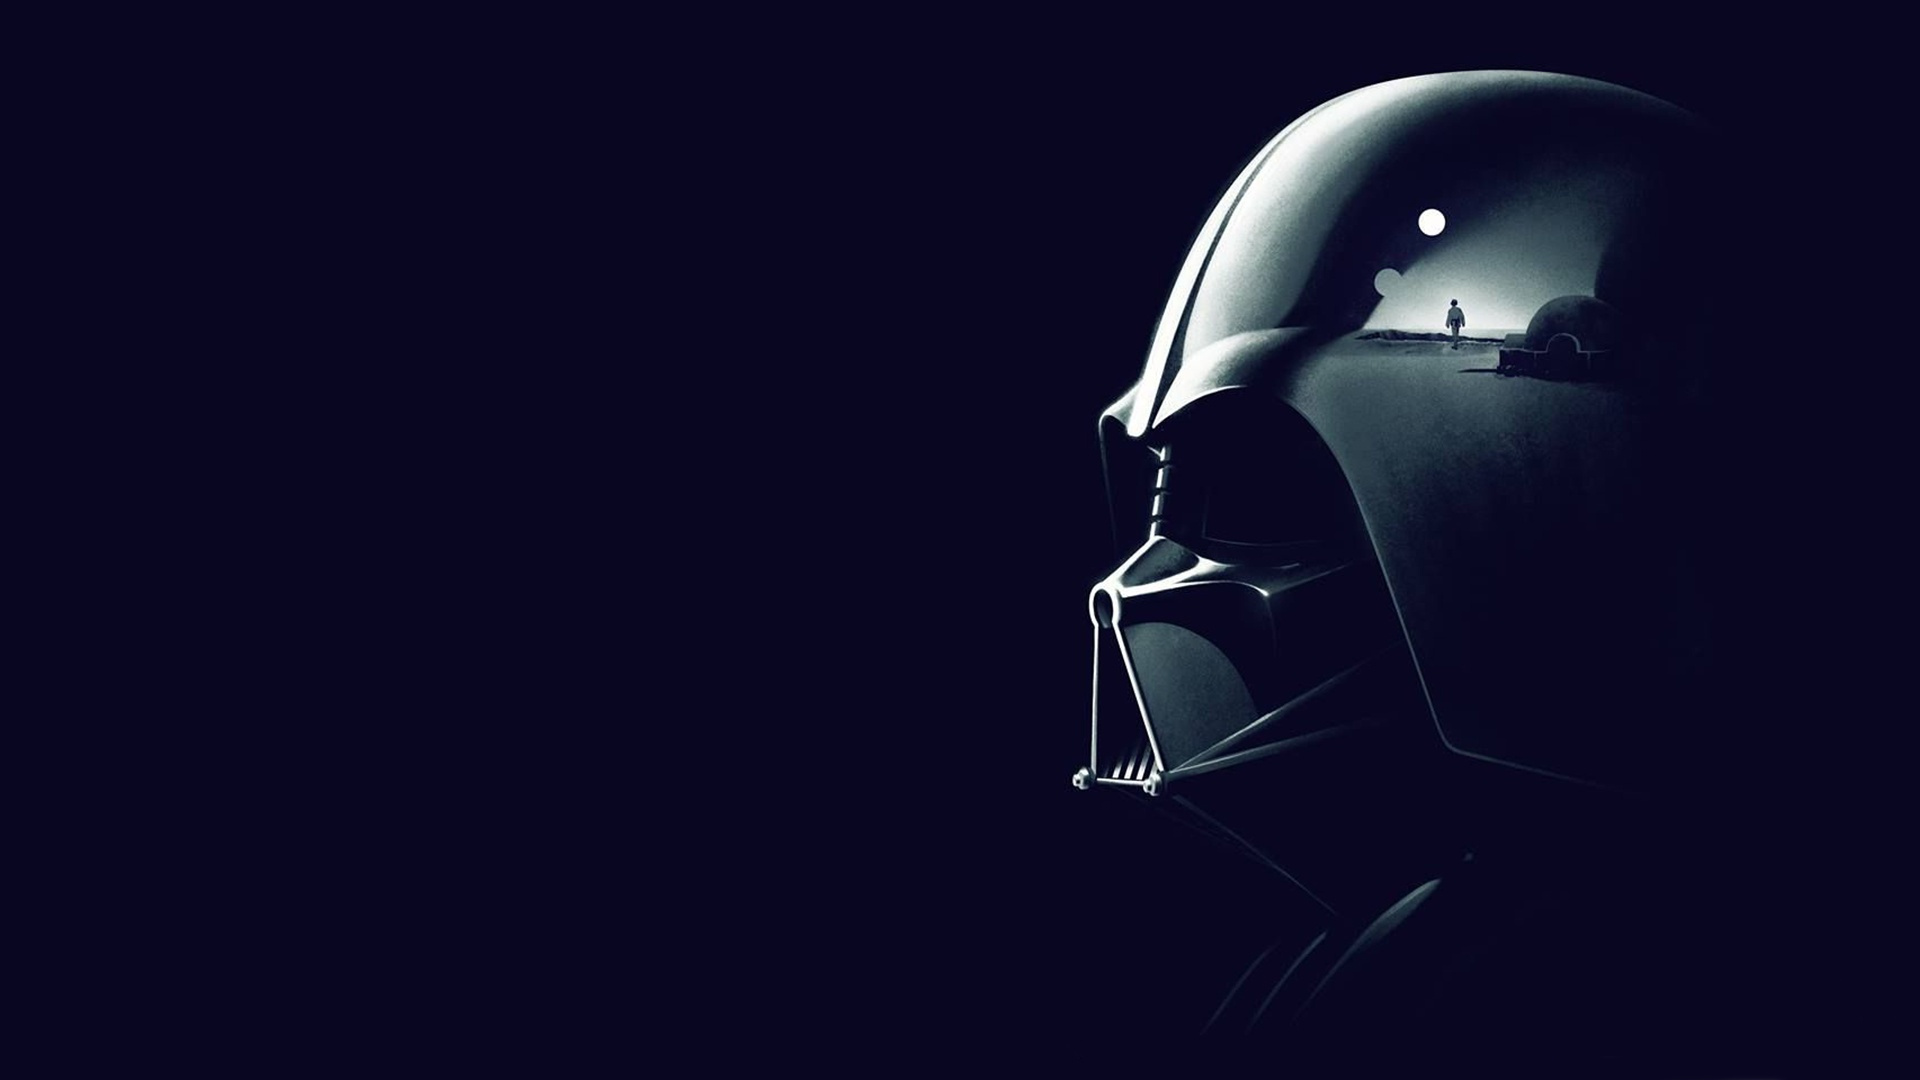
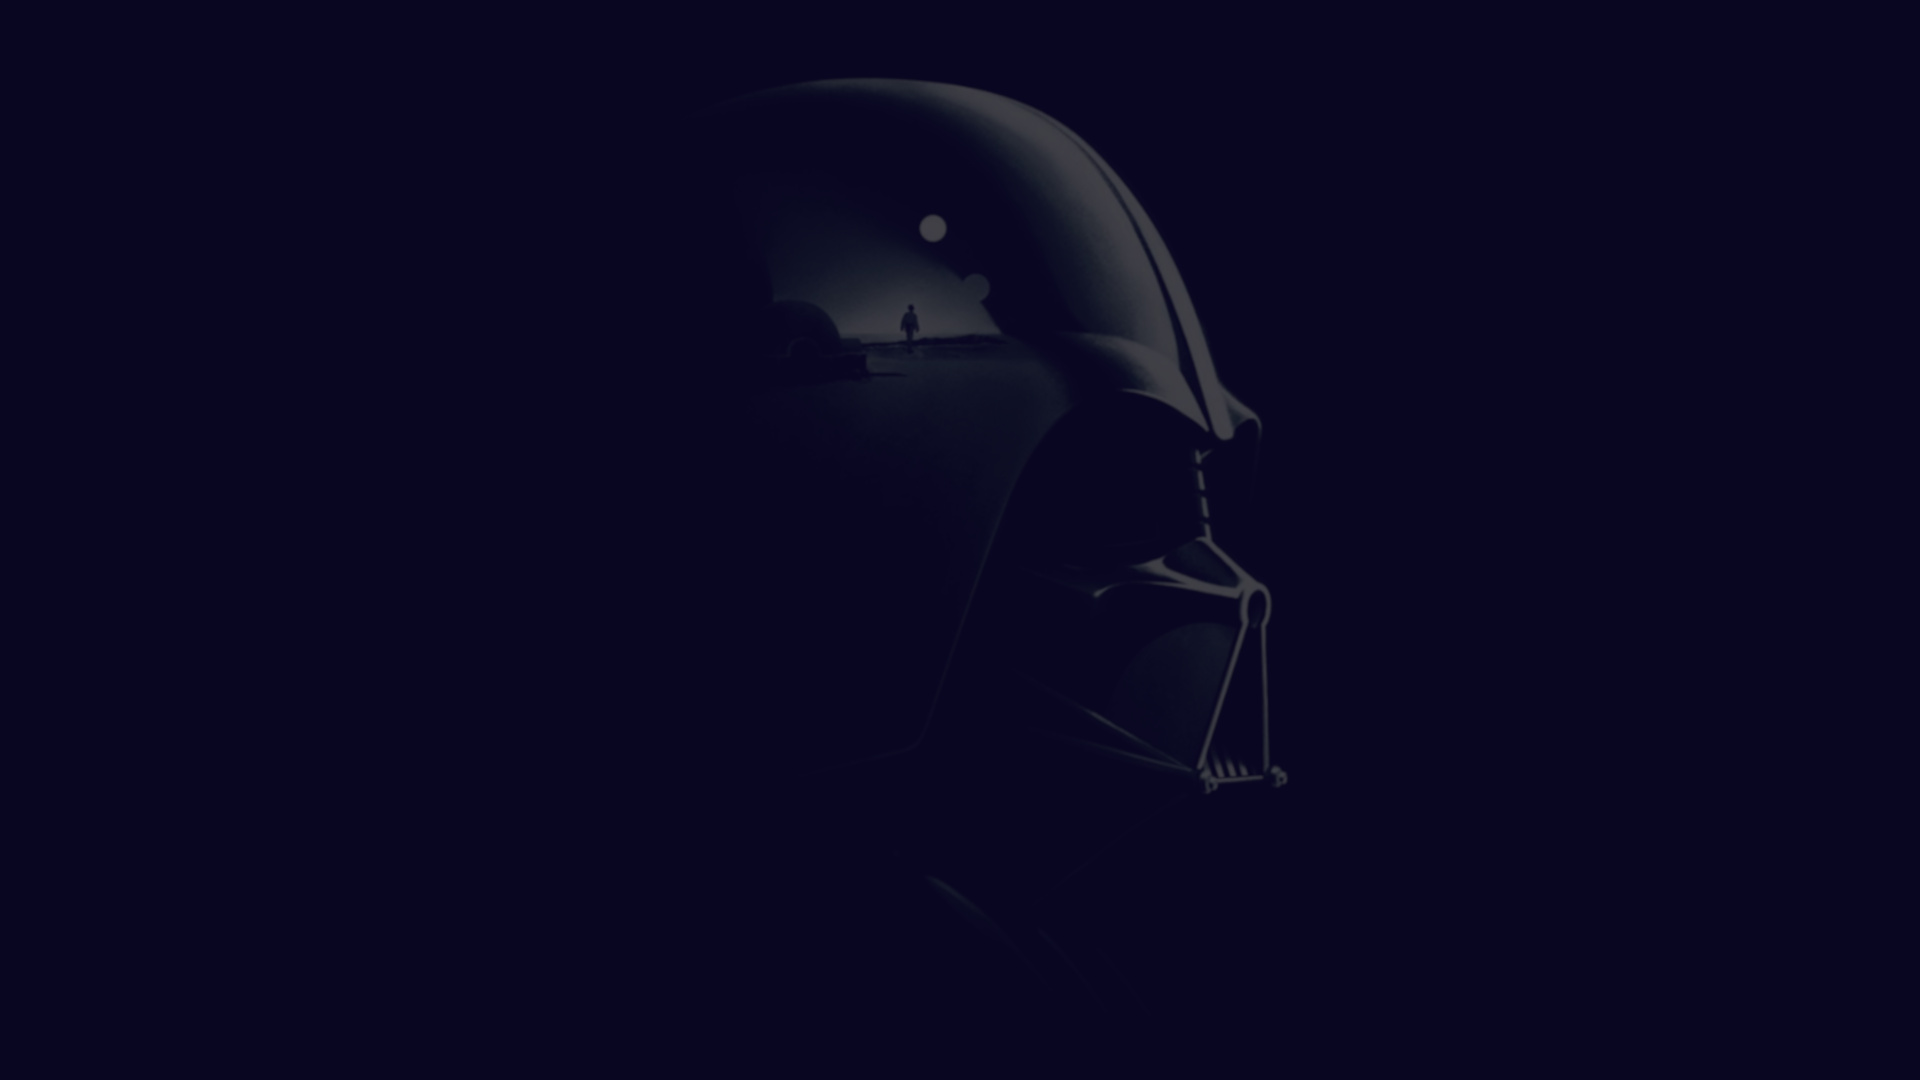
add page background image

diff --git a/index.html b/index.html
@@ -1,0 +1,10 @@
+<!DOCTYPE html>
+<html lang="en">
+	<head>
+		<meta charset="UTF-8" />
+		<meta name="viewport" content="width=device-width, initial-scale=1.0" />
+		<link rel="stylesheet" href="css/styles.css" type="text/css" rel="stylesheet" />
+		<title>Star Wars - Swapi API</title>
+	</head>
+	<body></body>
+</html>

diff --git a/css/styles.css b/css/styles.css
@@ -1,0 +1,9 @@
+body {
+  margin: 0;
+  background-image: url("../imgs/star-wars-bg.jpg");
+  background-size: cover;
+  background-position: center, center;
+  height: 100vh;
+  width: 100vw;
+  overflow: hidden;
+}

diff --git a/css/styles.scss b/css/styles.scss
@@ -1,0 +1,9 @@
+body {
+	margin: 0;
+	background-image: url("../imgs/star-wars-bg.jpg");
+	background-size: cover;
+	background-position: center, center;
+	height: 100vh;
+	width: 100vw;
+	overflow: hidden;
+}
